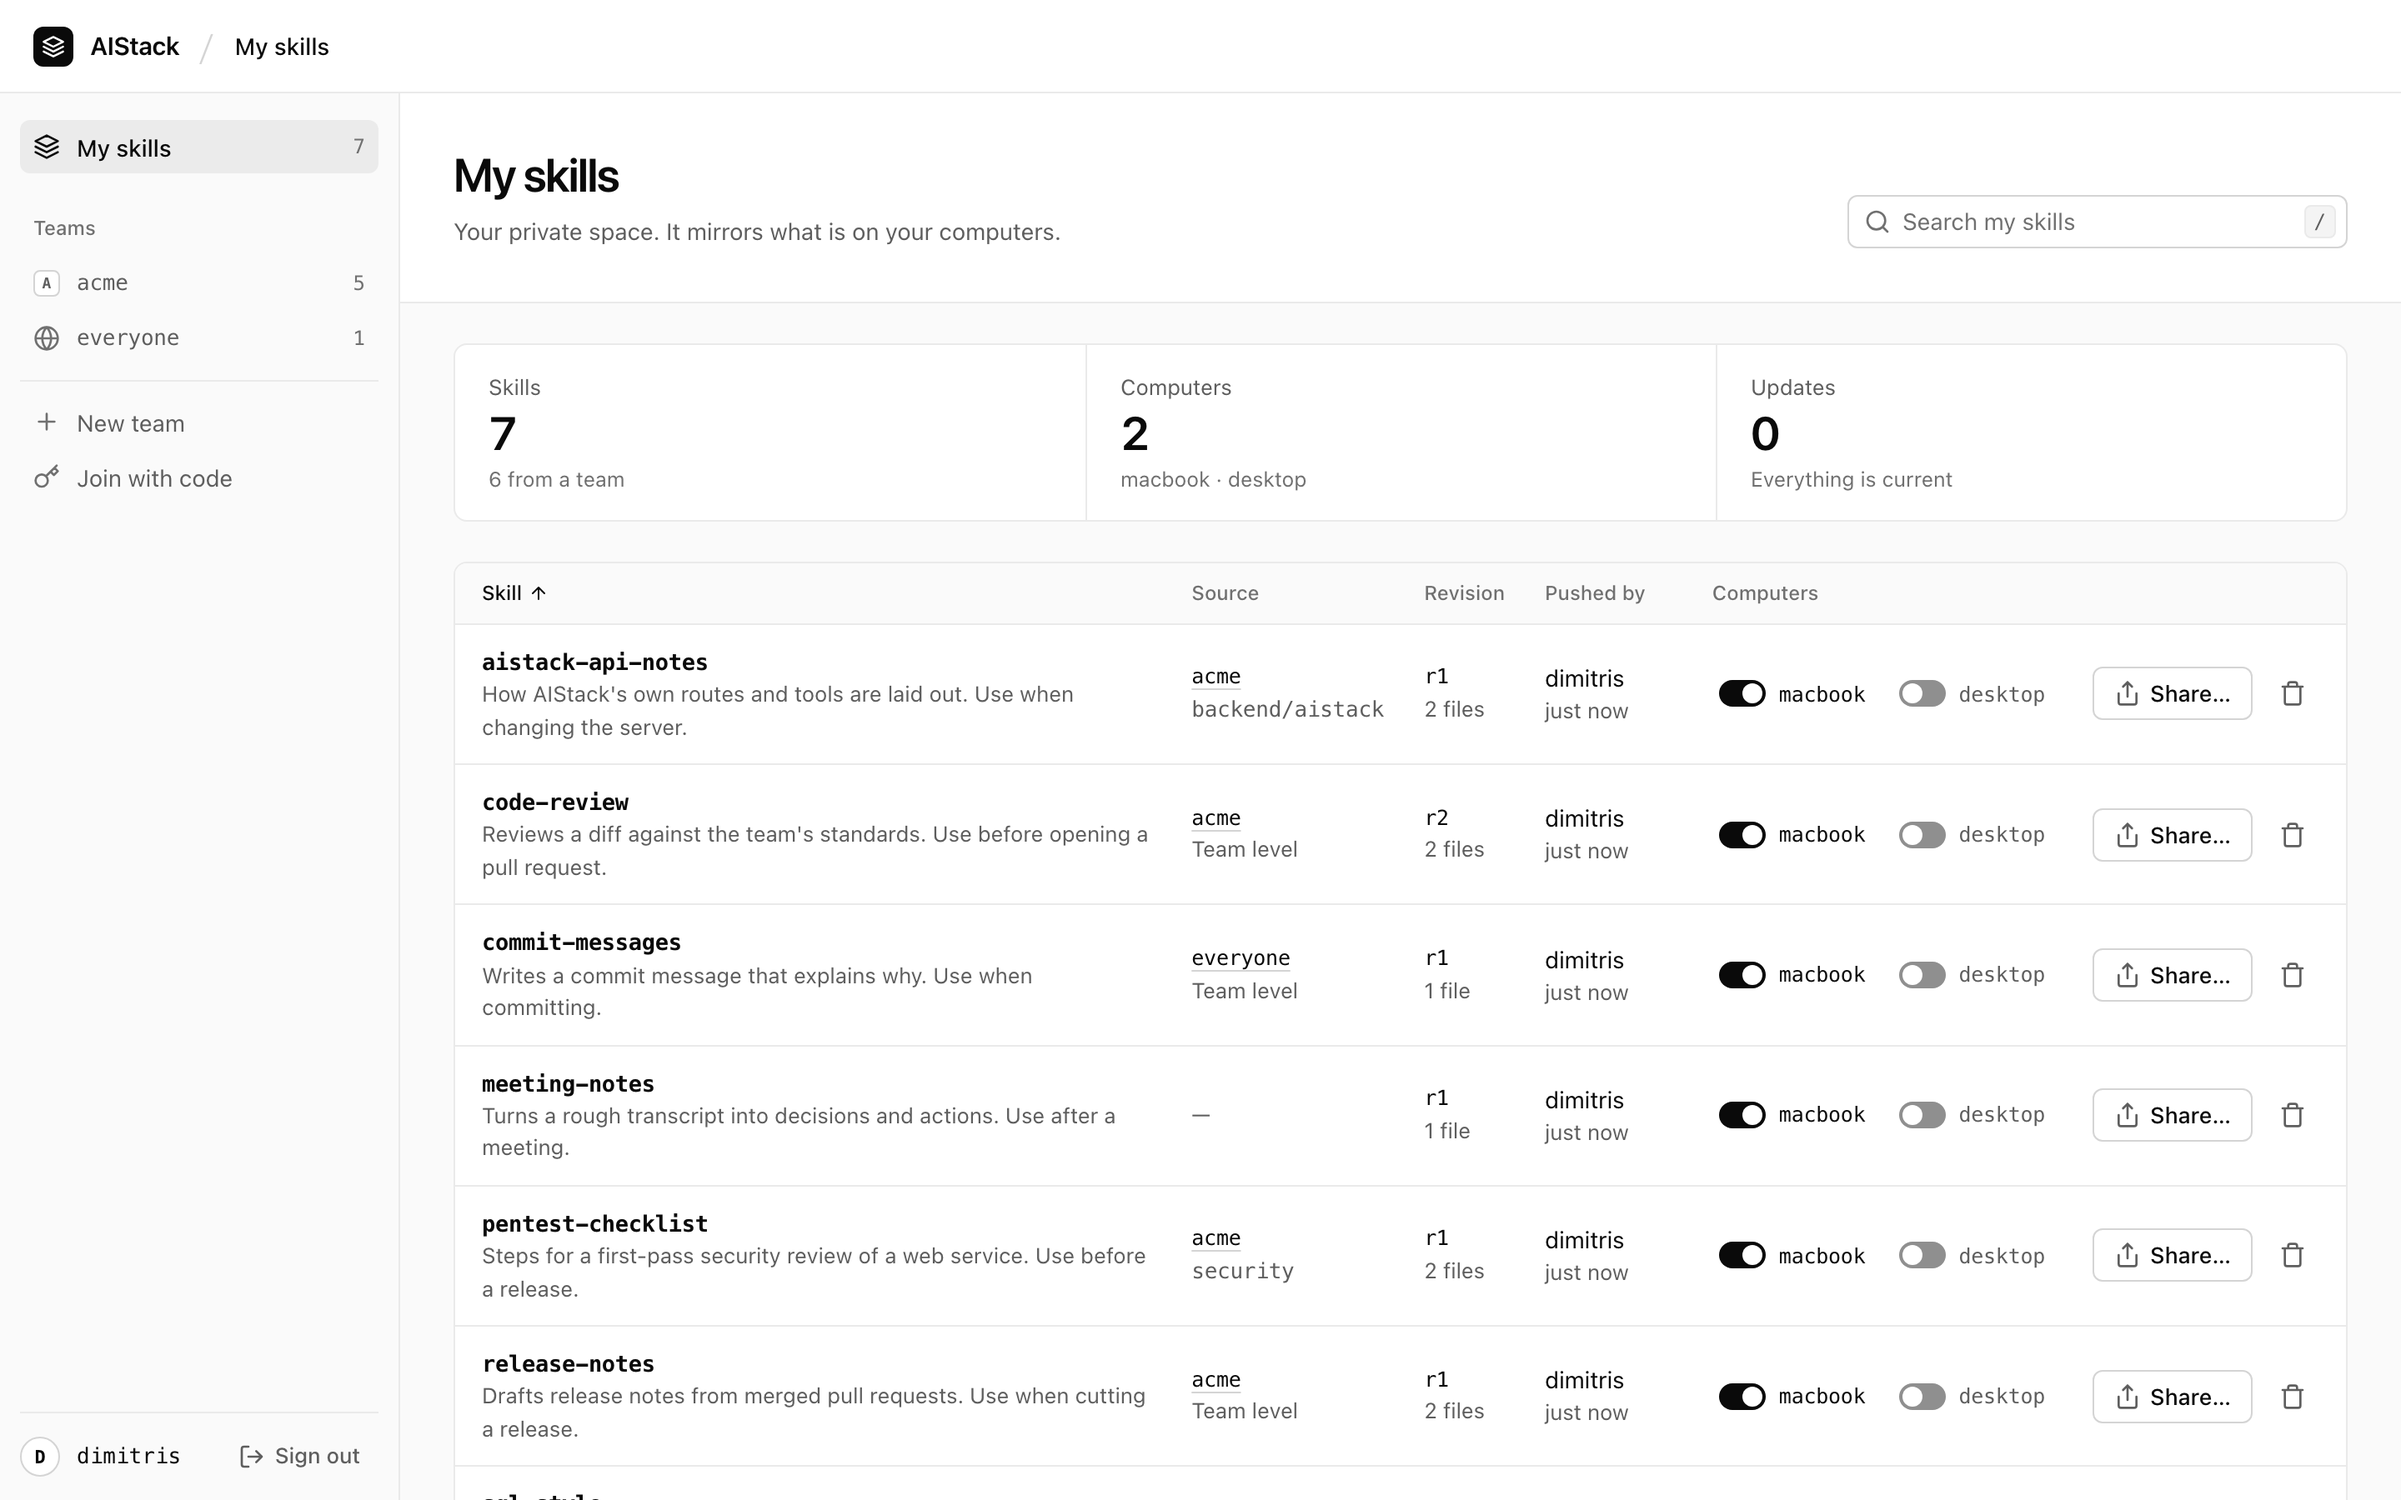
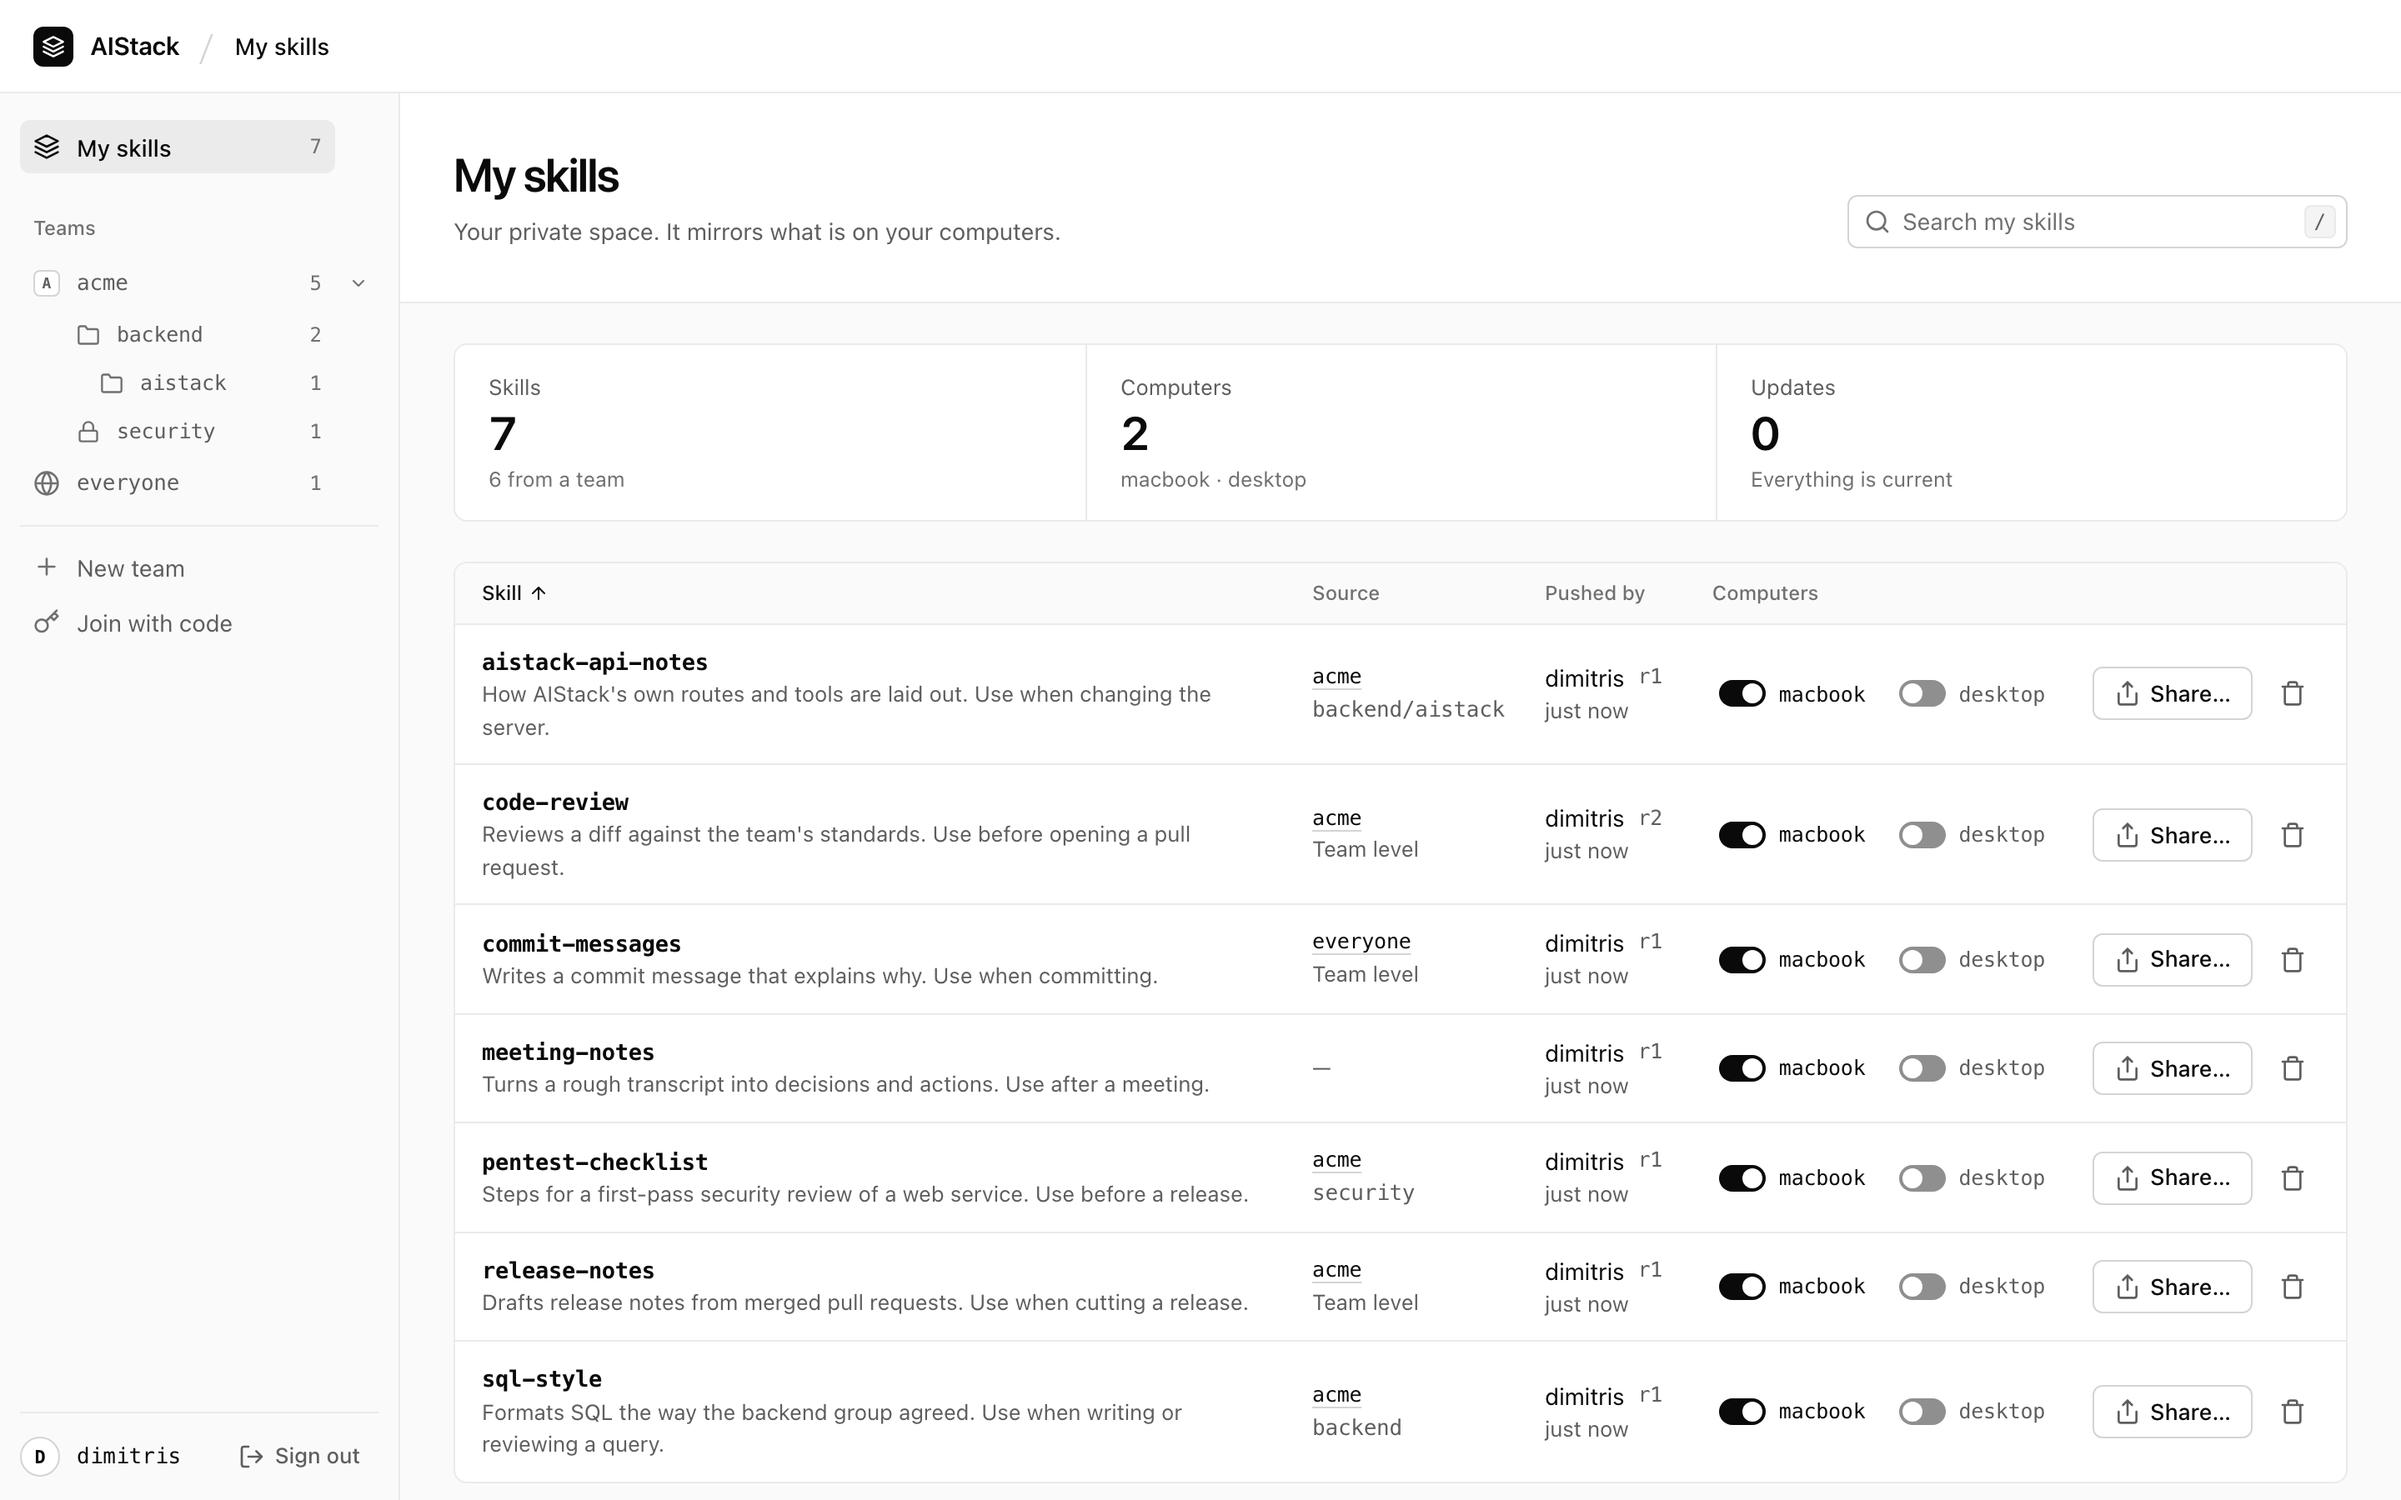
Retake the README's screenshots and add a way to try it locally
The screenshots were taken before the Mono changes and the sidebar's
group tree, so they showed a page that no longer exists. And the only
way to see the page was to connect a real coding agent first.

The README gains "Try it in two minutes": four commands that start a
server and fill it with the demo team, run as written. The
screenshots are retaken, and scripts/retake_screenshots.py retakes
them from a fresh server with one command, so they need not go stale
again.

Closes #57.

diff --git a/scripts/retake_screenshots.py b/scripts/retake_screenshots.py
@@ -1,0 +1,41 @@
+"""Retake the README's screenshots from a freshly seeded server.
+
+    python scripts/retake_screenshots.py http://127.0.0.1:8000 <invite code>
+
+Run it against a server nobody has joined yet: it fills it with `demo_seed.py` first.
+"""
+
+import asyncio
+import pathlib
+import sys
+
+from playwright.async_api import async_playwright
+
+import demo_seed
+
+IMAGES = pathlib.Path(__file__).parents[1] / "docs" / "images"
+WIDE = {"width": 1440, "height": 900}
+
+
+async def main() -> None:
+    base_url, invite_code = sys.argv[1].rstrip("/"), sys.argv[2]
+    links = await demo_seed.seed(base_url, invite_code)
+    async with async_playwright() as playwright:
+        browser = await playwright.chromium.launch()
+        shots = [("dimitris", "light", "#/mine", "my-skills"), ("dimitris", "light", "#/t/acme/skills", "team"),
+                 ("dimitris", "light", "#/t/acme/groups", "groups"), ("maria", "dark", "#/mine", "update-dark")]
+        for username, scheme, route, name in shots:
+            context = await browser.new_context(viewport=WIDE, device_scale_factor=2, color_scheme=scheme)
+            page = await context.new_page()
+            await page.goto(links[username])
+            await page.get_by_role("heading", name="My skills", level=1).wait_for()
+            await page.goto(f"{base_url}/app{route}")
+            await page.wait_for_timeout(400)
+            await page.screenshot(path=str(IMAGES / f"dashboard-{name}.png"))
+            await context.close()
+        await browser.close()
+    print(f"Retook {len(shots)} screenshots in {IMAGES}.")
+
+
+if __name__ == "__main__":
+    asyncio.run(main())

diff --git a/README.md b/README.md
@@ -8,6 +8,21 @@ You see and manage all of it on a web dashboard. Your coding agent is connected 
 
 Open source, one container, no passwords.
 
+## Try it in two minutes
+
+No coding agent and no Docker needed to look around. This starts a server on your machine and fills it with a small demo team:
+
+```bash
+git clone https://github.com/dchristopoulos/AIStack && cd AIStack
+poetry install
+AISTACK_INVITE_CODE=try-it-out-locally-1234 poetry run python -m aistack.bootstrap &
+poetry run python scripts/demo_seed.py http://127.0.0.1:8000 try-it-out-locally-1234
+```
+
+It prints a sign-in link for each of three people: an admin, a member with an update waiting, and a member who is kept out of a private group. Open one. Everything the script created went through the same tools and routes a real user's agent and browser use.
+
+## What it looks like
+
 ![My skills: every skill, where it came from, and which of your computers has it](docs/images/dashboard-my-skills.png)
 
 | A team, with nested groups | Managing groups |
@@ -142,6 +157,8 @@ To look around without setting anything up, fill a fresh server with a small dem
 ```bash
 poetry run python scripts/demo_seed.py http://127.0.0.1:8000 "<the invite code>"
 ```
+
+The screenshots in this README are retaken the same way, from a fresh server, by `scripts/retake_screenshots.py`.
 
 [**Operating AIStack**](docs/OPERATING.md) covers configuration, reaching the server from other machines, backups, upgrades, and the operator's tasks: revoke a machine, recover a locked-out user, take someone off the server, rotate the invite code.
 
